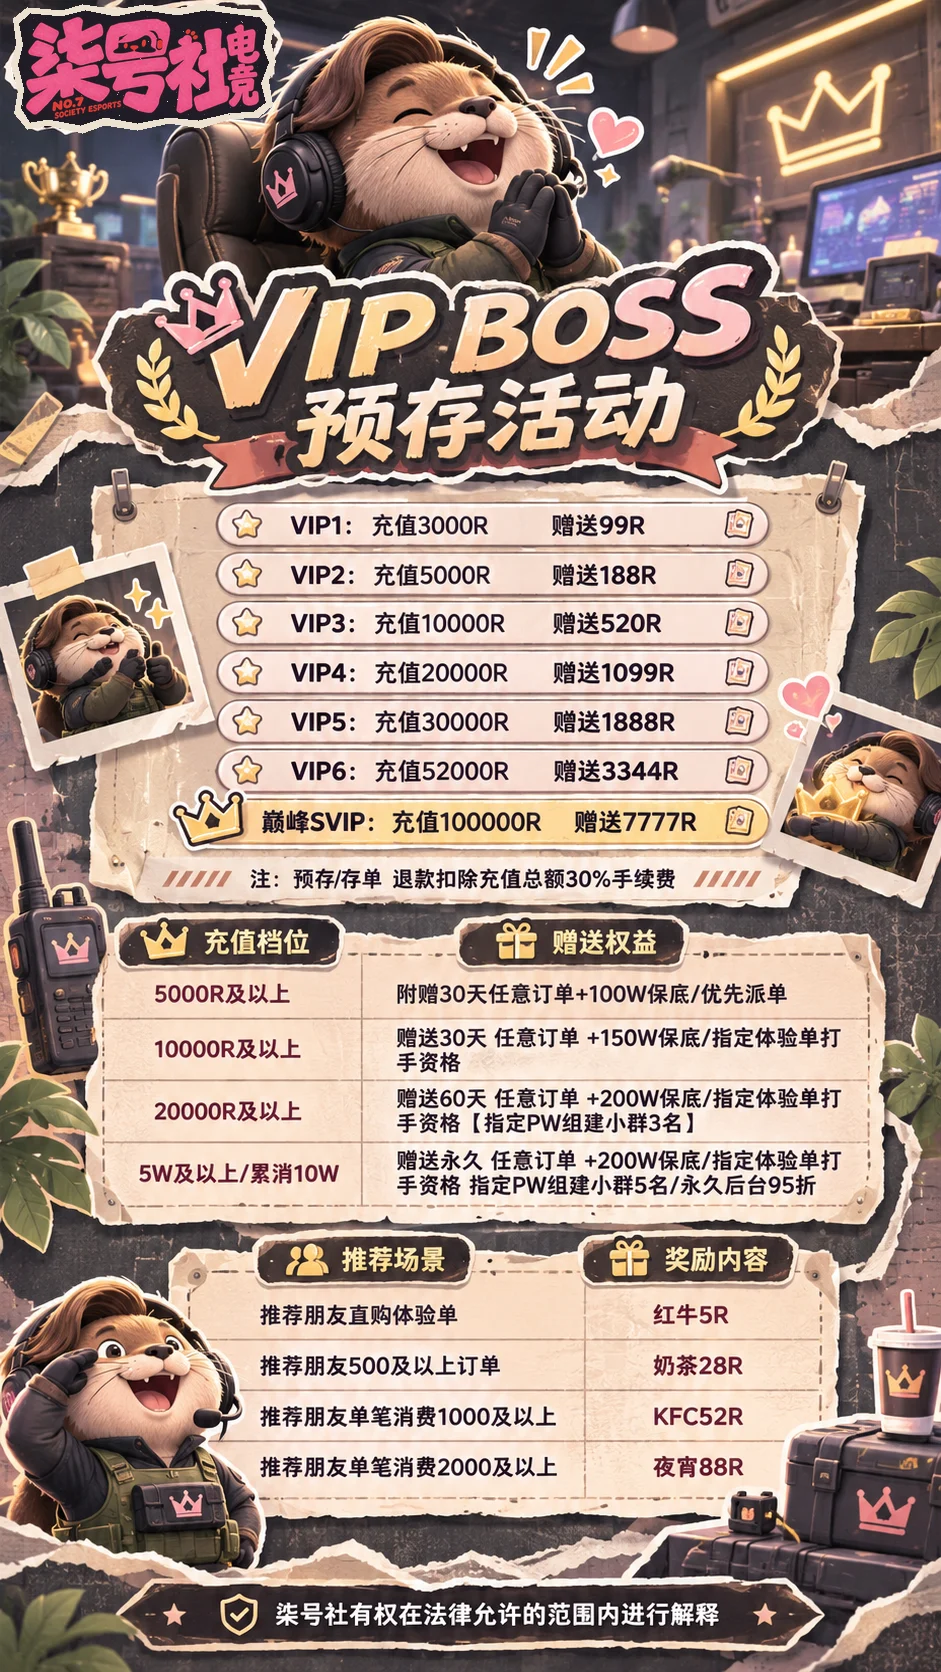
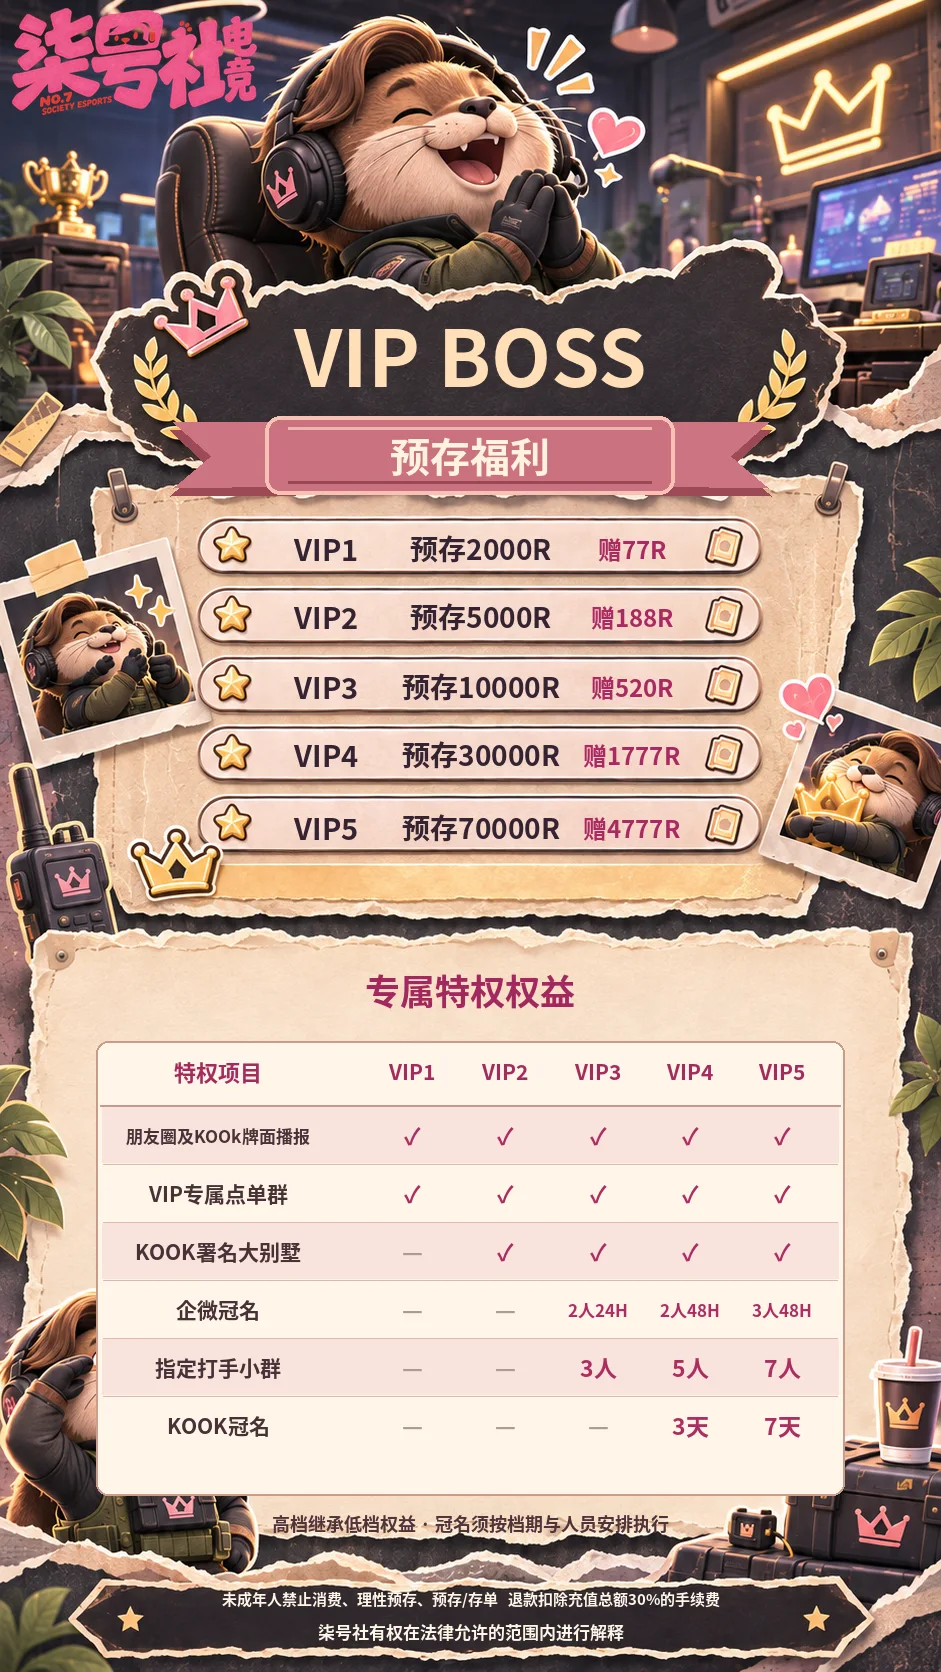
更新VIP预存福利和冠名定价海报

diff --git a/app.js b/app.js
@@ -13,9 +13,9 @@ const menus=[
 ];const $=id=>document.getElementById(id);let category='全部菜单',current=0,lastFocus=null,vipMode=false;const cats=['全部菜单','基础护航与体验单','趣味单','3×3专区'];const contact='微信公众号：柒号社电竞俱乐部\nKOOK：0000007';const img=m=>'./assets/'+m[2];
 function render(){ $('tabs').innerHTML=cats.map(c=>'<button class="tab '+(c===category?'active':'')+'" data-cat="'+c+'" aria-pressed="'+(c===category)+'">'+c+'</button>').join('');$('grid').innerHTML=menus.map((m,i)=>({m,i})).filter(x=>category==='全部菜单'||x.m[1]===category).map(({m,i})=>'<button class="card" data-i="'+i+'" aria-label="查看'+m[0]+'完整菜单"><div class="card-pic"><img loading="lazy" src="'+img(m)+'" alt="'+m[0]+'正式海报"><div class="card-number"><b>MISSION</b> / '+String(i+1).padStart(2,'0')+'</div><div class="card-hover">展开完整菜单 <b>↗</b></div></div><div class="card-bottom"><div><small>'+m[1]+' · '+m[3]+'</small><h3>'+m[0]+'</h3></div><b>↗</b></div></button>').join('');document.querySelectorAll('[data-cat]').forEach(b=>b.onclick=()=>{category=b.dataset.cat;render()});document.querySelectorAll('[data-i]').forEach(b=>b.onclick=()=>openPoster(Number(b.dataset.i)))}function lock(v){document.body.classList.toggle('locked',v)}
 function openRules(){lastFocus=document.activeElement;$('rulesModal').classList.remove('hidden');$('rulesContent').scrollTop=0;lock(true);$('rulesAccept').focus()}function closeRules(accepted){$('rulesModal').classList.add('hidden');lock(false);if(accepted)sessionStorage.setItem('no7_rules','read');lastFocus?.focus?.()}
-function openPoster(i){const alreadyOpen=!$('posterModal').classList.contains('hidden');if(!alreadyOpen)lastFocus=document.activeElement;vipMode=false;$('prev').hidden=false;$('next').hidden=false;current=(i+menus.length)%menus.length;const m=menus[current];$('posterCount').textContent='MISSION '+String(current+1).padStart(2,'0')+' / '+menus.length;$('posterTitle').textContent=m[0];$('posterImg').src=img(m);$('posterImg').alt='柒号社电竞 '+m[0]+' 正式菜单完整海报';$('posterModal').classList.remove('hidden');$('posterScroll').scrollTop=0;const panel=$('posterModal').querySelector('.poster-window');panel.classList.remove('exiting');if(!alreadyOpen){panel.style.animation='none';void panel.offsetWidth;panel.style.animation=''}else{const picture=$('posterImg');picture.style.animation='none';void picture.offsetWidth;picture.style.animation=''}lock(true);$('posterClose').focus()}function openVip(){lastFocus=document.activeElement;vipMode=true;$('prev').hidden=true;$('next').hidden=true;$('posterCount').textContent='MEMBERSHIP / VIP';$('posterTitle').textContent='VIP BOSS 充值福利';$('posterImg').src='./assets/vip.webp';$('posterImg').alt='柒号社 VIP BOSS 充值福利完整海报';$('posterModal').classList.remove('hidden');$('posterScroll').scrollTop=0;lock(true);$('posterClose').focus()}let closing=false;function closePoster(){if(closing)return;if(window.matchMedia('(prefers-reduced-motion: reduce)').matches){finishClose();return}closing=true;const panel=$('posterModal').querySelector('.poster-window');panel.classList.add('exiting');setTimeout(()=>{panel.classList.remove('exiting');finishClose();closing=false},280)}function finishClose(){$('posterModal').classList.add('hidden');lock(false);lastFocus?.focus?.()}
+function openPoster(i){const alreadyOpen=!$('posterModal').classList.contains('hidden');if(!alreadyOpen)lastFocus=document.activeElement;vipMode=false;$('prev').hidden=false;$('next').hidden=false;current=(i+menus.length)%menus.length;const m=menus[current];$('posterCount').textContent='MISSION '+String(current+1).padStart(2,'0')+' / '+menus.length;$('posterTitle').textContent=m[0];$('posterImg').src=img(m);$('posterImg').alt='柒号社电竞 '+m[0]+' 正式菜单完整海报';$('posterModal').classList.remove('hidden');$('posterScroll').scrollTop=0;const panel=$('posterModal').querySelector('.poster-window');panel.classList.remove('exiting');if(!alreadyOpen){panel.style.animation='none';void panel.offsetWidth;panel.style.animation=''}else{const picture=$('posterImg');picture.style.animation='none';void picture.offsetWidth;picture.style.animation=''}lock(true);$('posterClose').focus()}function openSpecial(title,filename){lastFocus=document.activeElement;vipMode=true;$('prev').hidden=true;$('next').hidden=true;$('posterCount').textContent='MEMBERSHIP / BENEFITS';$('posterTitle').textContent=title;$('posterImg').src='./assets/'+filename;$('posterImg').alt='柒号社 '+title+' 完整海报';$('posterModal').classList.remove('hidden');$('posterScroll').scrollTop=0;lock(true);$('posterClose').focus()}const openVip=()=>openSpecial('VIP BOSS 预存福利','vip.webp');const openNaming=()=>openSpecial('冠名定价','naming.webp');let closing=false;function closePoster(){if(closing)return;if(window.matchMedia('(prefers-reduced-motion: reduce)').matches){finishClose();return}closing=true;const panel=$('posterModal').querySelector('.poster-window');panel.classList.add('exiting');setTimeout(()=>{panel.classList.remove('exiting');finishClose();closing=false},280)}function finishClose(){$('posterModal').classList.add('hidden');lock(false);lastFocus?.focus?.()}
 async function copy(btn){const old=btn.innerHTML;try{await navigator.clipboard.writeText(contact);btn.textContent='已复制 ✓'}catch{btn.textContent='公众号：柒号社电竞俱乐部 / KOOK：0000007'}setTimeout(()=>btn.innerHTML=old,2600)}
 function openOrder(){lastFocus=document.activeElement;$('orderModal').classList.remove('hidden');lock(true);$('orderClose').focus()}function closeOrder(){$('orderModal').classList.add('hidden');lock(false);lastFocus?.focus?.()}
-$('showRules').onclick=openRules;$('heroRules').onclick=openRules;$('mobileRules').onclick=openRules;$('rulesAccept').onclick=()=>closeRules(true);$('rulesClose').onclick=()=>{if(sessionStorage.getItem('no7_rules'))closeRules(false)};$('vipOpen').onclick=openVip;$('posterClose').onclick=closePoster;$('prev').onclick=()=>openPoster(current-1);$('next').onclick=()=>openPoster(current+1);$('contactCopy').onclick=openOrder;$('mobileContact').onclick=openOrder;$('posterCopy').onclick=()=>{finishClose();openOrder()};$('orderClose').onclick=closeOrder;$('copyMethods').onclick=e=>copy(e.currentTarget);$('orderModal').onclick=e=>{if(e.target===$('orderModal'))closeOrder()};
+$('showRules').onclick=openRules;$('heroRules').onclick=openRules;$('mobileRules').onclick=openRules;$('rulesAccept').onclick=()=>closeRules(true);$('rulesClose').onclick=()=>{if(sessionStorage.getItem('no7_rules'))closeRules(false)};$('vipOpen').onclick=openVip;$('vipPreview').onclick=openVip;$('namingOpen').onclick=openNaming;$('namingPreview').onclick=openNaming;$('posterClose').onclick=closePoster;$('prev').onclick=()=>openPoster(current-1);$('next').onclick=()=>openPoster(current+1);$('contactCopy').onclick=openOrder;$('mobileContact').onclick=openOrder;$('posterCopy').onclick=()=>{finishClose();openOrder()};$('orderClose').onclick=closeOrder;$('copyMethods').onclick=e=>copy(e.currentTarget);$('orderModal').onclick=e=>{if(e.target===$('orderModal'))closeOrder()};
 $('posterModal').onclick=e=>{if(e.target===$('posterModal'))closePoster()};$('rulesModal').onclick=e=>{if(e.target===$('rulesModal')&&sessionStorage.getItem('no7_rules'))closeRules(false)};document.onkeydown=e=>{if(e.key==='Escape'){if(!$('orderModal').classList.contains('hidden'))closeOrder();else if(!$('posterModal').classList.contains('hidden'))closePoster();else if(sessionStorage.getItem('no7_rules')&&!$('rulesModal').classList.contains('hidden'))closeRules(false)}if(!vipMode&&!$('posterModal').classList.contains('hidden')){if(e.key==='ArrowRight')openPoster(current+1);if(e.key==='ArrowLeft')openPoster(current-1)}};
 render();if(!sessionStorage.getItem('no7_rules'))openRules();

diff --git a/index.html b/index.html
@@ -3,7 +3,7 @@
 <section class="hero" id="top"><div class="hero-glow"></div><div class="hero-copy"><div class="overline">/// NO.7 SOCIETY ESPORTS · 2026</div><div class="hero-kicker">WELCOME TO THE GAME</div><h1>板板，<br><em>准备好</em><br>上车了吗<span>?</span></h1><p>天空属于哈夫克，地面属于柒号社。<br>你的下一次撤离，从这里开始。</p><div class="hero-actions"><a class="primary" href="#menu">探索全部菜单 <b>↗</b></a><button id="heroRules" class="secondary">先看下单须知 ↗</button></div></div><div class="hero-character"><img src="./assets/team.webp" alt="柒号社电竞三人组合照"><div class="hero-character-label"><span>NO.7 SOCIETY</span><b>YOUR MISSION STARTS HERE</b></div></div><div class="hero-foot"><span>▲ SCROLL TO EXPLORE</span><span>MISSION SELECT / 01—11</span></div></section>
 <div class="ticker"><div>NO.7 SOCIETY ESPORTS ✦ 天空属于哈夫克，地面属于柒号社 ✦ MISSION SELECT ✦ NO.7 SOCIETY ESPORTS ✦ 天空属于哈夫克，地面属于柒号社 ✦ MISSION SELECT ✦</div></div>
 <main id="menu"><div class="section-title"><div><span class="overline">/// SELECT YOUR MISSION</span><h2>任务<span>菜单</span> ✳</h2><p>基础护航与体验单、趣味单、3×3专区，分类一目了然。点开卡片看完整玩法与价格。</p></div><div class="count">AVAILABLE MISSIONS<strong>11 <small>/ 11</small></strong></div></div><div class="tabs" id="tabs"></div><div id="grid" class="grid"></div>
-<section class="vip"><div class="vip-image"><img src="./assets/vip.webp" alt="VIP BOSS 充值福利" loading="lazy"></div><div class="vip-content"><span class="overline">/// MEMBERSHIP PROTOCOL</span><h2>板板专属<br><span>VIP BOSS</span> 福利</h2><p>常驻板板的预存权益、福利与推荐奖励。完整活动内容都在正式海报中。</p><button class="primary" id="vipOpen">查看充值福利 <b>↗</b></button><small>充值前请仔细阅读对应权益与退款说明。</small></div></section>
+<section class="vip"><div class="vip-image"><button class="vip-preview" id="vipPreview" aria-label="查看完整预存福利海报"><img src="./assets/vip.webp" alt="VIP BOSS 最新预存福利" loading="lazy"><span>预存福利 ↗</span></button><button class="vip-preview" id="namingPreview" aria-label="查看完整冠名定价海报"><img src="./assets/naming.webp" alt="柒号社最新冠名定价" loading="lazy"><span>冠名定价 ↗</span></button></div><div class="vip-content"><span class="overline">/// MEMBERSHIP PROTOCOL</span><h2>板板专属<br><span>VIP BOSS</span> 福利</h2><p>预存福利与冠名权益都已更新，点击查看完整价目与规则。</p><div class="vip-actions"><button class="primary" id="vipOpen">查看预存福利 <b>↗</b></button><button class="secondary" id="namingOpen">查看冠名定价 ↗</button></div><small>参与前请仔细阅读对应权益与退款说明。</small></div></section>
 <section class="steps-section"><span class="overline">/// HOW TO ORDER</span><h2>三步，<span>直接上车。</span></h2><div class="steps"><div><b>01</b><strong>阅读须知</strong><p>第一次进入，先阅读完整规则。</p></div><div><b>02</b><strong>选个玩法</strong><p>挑选菜单，放大看完整规则与价格。</p></div><div><b>03</b><strong>联系客服</strong><p>扫码进点单群，或搜索微信服务号、KOOK。</p></div></div><div class="contact"><div><small>WE ARE HERE / 24H</small><strong>板板，准备好就喊我们。</strong></div><button id="contactCopy">查看下单二维码与联系方式 ↗</button></div></section></main>
 <footer><img src="./assets/logo.webp" alt=""><div><b>NO.7 SOCIETY ESPORTS</b><p>天空属于哈夫克，地面属于柒号社。</p><small>未成年人禁止下单消费。实际价格与规则以俱乐部当前正式公告为准。</small></div><a href="#top">BACK TO TOP ↑</a></footer>
 <div class="overlay hidden" id="rulesModal" role="dialog" aria-modal="true" aria-labelledby="rulesTitle"><div class="rules-window"><div class="modal-head"><div><small>MANDATORY READING / 001</small><h2 id="rulesTitle">客户下单须知</h2></div><button class="close" id="rulesClose" aria-label="关闭">×</button></div><div class="rules-content" id="rulesContent"><div class="rules-text-intro"><span>NO.7 SOCIETY ESPORTS · CUSTOMER GUIDE</span><h3>为保障服务双方权益与良好体验</h3><p>下单即视为已阅读并认可以下全部规则</p></div><div class="warning">⚠ 郑重提示：本店禁止未成年人下单及消费</div><div id="rulesTranscription"></div><div class="rules-blessing">柒号社祝板板 <strong>肥肥得吃</strong></div></div><div class="modal-foot"><span>请阅读后继续</span><button class="primary" id="rulesAccept">我已阅读，进入菜单 →</button></div></div></div>

diff --git a/refined.css b/refined.css
@@ -20,6 +20,13 @@ body{background:radial-gradient(ellipse 80% 40% at 50% 23%,#201923 0%,transparen
 .tabs .tab{border-color:#51414e88;background:#17151b}
 .tabs .tab.active{background:#ed78a2;border-color:#ed78a2;color:#1d1019;box-shadow:0 4px 26px #e75e9633}
 .vip{background:linear-gradient(115deg,#241822,#16131b);border-color:#aa6a8152;box-shadow:0 30px 90px #0006}
+.vip-image{display:grid;grid-template-columns:1fr 1fr;gap:4px;background:#0c0a10}
+.vip-preview{position:relative;min-width:0;padding:0;border:0;overflow:hidden;background:#241824;color:white;text-align:center}
+.vip-preview img{width:100%;height:100%;object-fit:cover;object-position:top;transition:transform .35s,filter .35s}
+.vip-preview:hover img{transform:scale(1.05);filter:brightness(1.08)}
+.vip-preview span{position:absolute;bottom:0;left:0;right:0;padding:22px 8px 12px;background:linear-gradient(transparent,#150d18ec);font-size:13px;font-weight:900;text-shadow:0 1px 10px #000}
+.vip-actions{display:flex;gap:12px;flex-wrap:wrap}
+.vip-actions .secondary{font-size:13px;padding:15px 20px}
 .steps>div{background:#17131b}
 .steps{background:#4a374466;border-color:#4a374466}
 .overlay{background:#08060bdc;backdrop-filter:blur(18px) saturate(.7);transition:opacity .3s}
